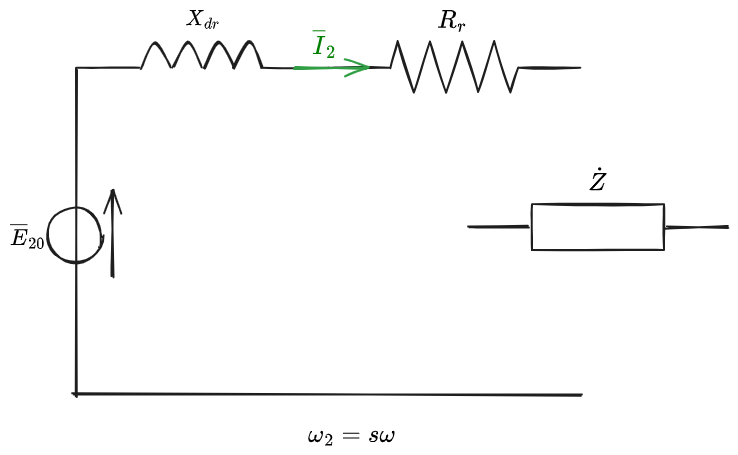
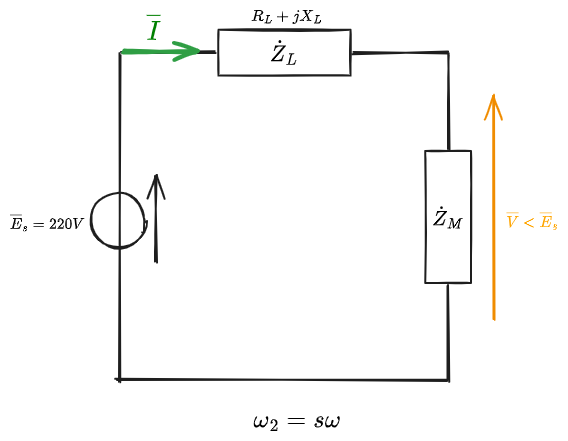
Published multiple files

Changed region(s): [[0.0, 0.0, 0.9877, 0.8844], [0.419, 0.9433, 0.5986, 0.9728]]

diff --git a/src/site/notes/Università/3° Anno/2° Semestre/Elettrotecnica/🔌 Elettrotecnica.md b/src/site/notes/Università/3° Anno/2° Semestre/Elettrotecnica/🔌 Elettrotecnica.md
@@ -117,10 +117,10 @@ ___
 | ------------------------------------------------------------------------------------------------------------------------------------------------------------------------------- | ----- | ------------- |
 | [[Università/3° Anno/2° Semestre/Elettrotecnica/Temi d'esame/Ex 2023-03-15 - ET\|Ex 2023-03-15 - ET]]                                                                        | Esame | 🔴 Fare       |
 | [[Università/3° Anno/2° Semestre/Elettrotecnica/Appunti/00 - Introduzione elettrotecnica\|00 - Introduzione elettrotecnica]]                                                 | T     | 🪶 Scrivere   |
-| [[Università/3° Anno/2° Semestre/Elettrotecnica/Appunti/19 - Motore Asincrono Trifase - ET\|19 - Motore Asincrono Trifase - ET]]                                             | T     | 🪶 Scrivere   |
 | [[Università/3° Anno/2° Semestre/Elettrotecnica/Appunti/20 - Cenni di impianti elettrici - ET\|20 - Cenni di impianti elettrici - ET]]                                       | T     | 🪶 Scrivere   |
 | [[Università/3° Anno/2° Semestre/Elettrotecnica/Appunti/14 - Reti in regime sinusoidale - ET\|14 - Reti in regime sinusoidale - ET]]                                         | T     | 🪶🟡 Scrivere |
 | [[Università/3° Anno/2° Semestre/Elettrotecnica/Appunti/15 - Reti trifasi - ET\|15 - Reti trifasi - ET]]                                                                     | T     | 🪶🟡 Scrivere |
+| [[Università/3° Anno/2° Semestre/Elettrotecnica/Appunti/19 - Motore Asincrono Trifase - ET\|19 - Motore Asincrono Trifase - ET]]                                             | T     | 🪶🟡 Scrivere |
 | [[Università/3° Anno/2° Semestre/Elettrotecnica/Appunti/08 - Reti in regime stazionario - ET\|08 - Reti in regime stazionario - ET]]                                         | T     | 🪶🟡Scrivere  |
 | [[Università/3° Anno/2° Semestre/Elettrotecnica/Appunti/03 - Introduzione allo studio delle reti elettriche - ET\|03 - Introduzione allo studio delle reti elettriche - ET]] | T     | 🟠 Studiare   |
 | [[Università/3° Anno/2° Semestre/Elettrotecnica/Appunti/04 - Fenomeni di conduzione e resistori - ET\|04 - Fenomeni di conduzione e resistori - ET]]                         | T     | 🟠 Studiare   |
@@ -168,7 +168,7 @@ La numerazione dei capitoli fa riferimento alla numerazione del libro di testo "
 | [[Università/3° Anno/2° Semestre/Elettrotecnica/Appunti/16 - Macchine elettriche - ET\|16 - Macchine elettriche - ET]]                                                       | 🟡 Finire     |
 | [[Università/3° Anno/2° Semestre/Elettrotecnica/Appunti/17 - Conversione elettromeccanica dell'energia - ET\|17 - Conversione elettromeccanica dell'energia - ET]]           | 🟠 Studiare   |
 | [[Università/3° Anno/2° Semestre/Elettrotecnica/Appunti/18 - Campo magnetico rotante\|18 - Campo magnetico rotante]]                                                         | 🟠 Studiare   |
-| [[Università/3° Anno/2° Semestre/Elettrotecnica/Appunti/19 - Motore Asincrono Trifase - ET\|19 - Motore Asincrono Trifase - ET]]                                             | 🪶 Scrivere   |
+| [[Università/3° Anno/2° Semestre/Elettrotecnica/Appunti/19 - Motore Asincrono Trifase - ET\|19 - Motore Asincrono Trifase - ET]]                                             | 🪶🟡 Scrivere |
 | [[Università/3° Anno/2° Semestre/Elettrotecnica/Appunti/20 - Cenni di impianti elettrici - ET\|20 - Cenni di impianti elettrici - ET]]                                       | 🪶 Scrivere   |
 
 { .block-language-dataview}

diff --git a/src/site/notes/Università/3° Anno/2° Semestre/Elettrotecnica/Appunti/19 - Motore Asincrono Trifase - ET.md b/src/site/notes/Università/3° Anno/2° Semestre/Elettrotecnica/Appunti/19 - Motore Asincrono Trifase - ET.md
@@ -579,7 +579,7 @@ $$
 ```ad-Definizione
 title: Potenza meccanica ($P_{m}$)
 
-La **potenza meccanica** consegnata alla resistenza equivalente del rotore del [[19 - Motore Asincrono Trifase - ET|MAT]] in presenza di 3 coppie polari, è data da:
+La **potenza meccanica** consegnata alla resistenza equivalente del rotore del [[Università/3° Anno/2° Semestre/Elettrotecnica/Appunti/19 - Motore Asincrono Trifase - ET\|MAT]] in presenza di 3 coppie polari, è data da:
 $
 P_{m} = 3R_{e}I_{2}^{2}
 $
@@ -800,4 +800,44 @@ Si raffigura il circuito monofase equivalente del rotore a gabbia di scoiattolo:
 ![19 - CEM Rotore a gabbia di scoiattolo - ET 2024-07-04 18.00.40.png](/img/user/Excalidraw/19%20-%20CEM%20Rotore%20a%20gabbia%20di%20scoiattolo%20-%20ET%202024-07-04%2018.00.40.png)
 
 
-#### Avviamento con commutazione
+dove:
+- $\dot{Z}_{L} = R_{L}+jX_{L}:$ Impedenza di linea
+- $\dot{Z}_{M}:$ Impedenza di ingresso del motore, dipendente dallo scorrimento (ossia da $\Omega_{rot}$)
+- $\overline{V}:$ Tensione di alimentazione degli avvolgimenti statorici del [[19 - Motore Asincrono Trifase - ET|MAT]]
+
+Si può calcolare la caduta percentuale di tensione:
+$$
+\Delta V_{\%} = \frac{R_{L}P+X_{L}Q}{V^{2}} \cdot 100
+$$
+
+Il motore è generlmente alimentato a $V = 220\,\rm V$. La caduta di tensione però deve rimanere contenuta in modo da limitare le correnti di avviamento. Se ciò non avviene, si finisce solo per aumentare la caduta percentuale, facendo diminuire la tensione di alimentazione con il risultato di avere correnti di avviamento elevate e una macchina che non parte.
+
+Per ovviare a ciò si sfrutta l'[[Università/3° Anno/2° Semestre/Elettrotecnica/Appunti/19 - Motore Asincrono Trifase - ET#Avviamento con commutazione stella-triangolo\|#Avviamento con commutazione stella-triangolo]]
+
+#### Avviamento con commutazione stella-triangolo
+
+Questo tipo di avviamento, nei motori a gabbia di scoiattolo, sfrutta il fatto che, a parità di tensioni, le correnti di carico nella [[Università/3° Anno/2° Semestre/Elettrotecnica/Appunti/08 - Reti in regime stazionario - ET#Configurazione a stella\|configurazione a stella]] risultano essere 1/3 di quelle nella [[Università/3° Anno/2° Semestre/Elettrotecnica/Appunti/08 - Reti in regime stazionario - ET#Configurazione a triangolo\|configurazione a triangolo]].
+
+Anche se la tensione di alimentazione del motore è $\overline{V}$, la tensione sulle fasi statoriche risulterà la tensione stellata
+$$
+\overline{E} = \frac{\overline{V}}{\sqrt{3}}
+$$
+La corrente sul carico (corrispondente nel collegamento a stella alla [[Università/3° Anno/2° Semestre/Elettrotecnica/Appunti/15 - Reti trifasi - ET#Correnti di linea\|corrente di linea]]) sarà:
+$$
+\overline{I}_{\star} = \frac{\overline{E}}{\dot{Z}} = \frac{\overline{V}}{\sqrt{3}\dot{Z}} 
+$$
+La coppia di spunto anche risulterà ridotta. Essendo essa proporzionale al quadrato della tensione:
+$$
+C_{\triangle} = 3 C_{\star}
+$$
+
+❗❗❗❗❗❗❗❗❗❗❗❗
+❗❗❗ COMPLETARE ❗❗❗ chiedere appunti
+❗❗❗❗❗❗❗❗❗❗❗❗
+
+
+
+❗❗❗❗❗❗❗❗❗❗❗❗
+❗❗❗ COMPLETARE ❗❗❗ Rotore a doppia gabbia
+❗❗❗❗❗❗❗❗❗❗❗❗
+

diff --git a/src/site/notes/Università/2° anno/2° Semestre/GIS/🌍 GIS 1 & 2.md b/src/site/notes/Università/2° anno/2° Semestre/GIS/🌍 GIS 1 & 2.md
@@ -32,7 +32,7 @@ title: Domande
 | [[Università/2° anno/2° Semestre/GIS/GIS 1/Elaborati/Elaborato 1 - Quota\|Elaborato 1 - Quota]]                                                 | Elaborato | 🟢 Fatto | GIS     | \-         |
 | [[Università/2° anno/2° Semestre/GIS/GIS 1/Elaborati/Elaborato 2 - Uso suolo\|Elaborato 2 - Uso suolo]]                                         | Elaborato | 🟢 Fatto | GIS     | false      |
 | [[Università/2° anno/2° Semestre/GIS/GIS 2/Elaborati/Elaborato 5 - Analisi di idoneità\|Elaborato 5 - Analisi di idoneità]]                     | Es        | 🟢 Fatto | GIS 2   | \-         |
-| [[Università/2° anno/2° Semestre/GIS/GIS 1/0. Introduzione\|0. Introduzione]]                                                                   | T         | 🟢 Fatto | GIS 1   | false      |
+| [[Università/2° anno/2° Semestre/GIS/GIS 1/0. Introduzione\|0. Introduzione]]                                                                   | T         | 🟢 Fatto | GIS 1   | true       |
 | [[Università/2° anno/2° Semestre/GIS/GIS 1/1. Rappresentazione della terra e del territorio\|1. Rappresentazione della terra e del territorio]] | T         | 🟢 Fatto | GIS 1   | false      |
 | [[Università/2° anno/2° Semestre/GIS/GIS 1/2. Cartografia e GIS\|2. Cartografia e GIS]]                                                         | T         | 🟢 Fatto | GIS 1   | true       |
 | [[Università/2° anno/2° Semestre/GIS/GIS 1/3. Acquisizione dati\|3. Acquisizione dati]]                                                         | T         | 🟢 Fatto | GIS 1   | true       |

diff --git a/src/site/notes/Università/2° anno/2° Semestre/GIS/GIS 1/2. Cartografia e GIS.md b/src/site/notes/Università/2° anno/2° Semestre/GIS/GIS 1/2. Cartografia e GIS.md
@@ -452,7 +452,7 @@ In base alla scala, si definisce il tipo di rappresentazione.
 
 È importante notare che più riduco la scala più aumento l'[[errore di misura\|errore di misura]] ossia l'incertezza.
 
-La scala non è definibile in modo univoco. Distiguiamo:
+La scala non è definibile in modo univoco. Distinguiamo:
 - [[Università/2° anno/2° Semestre/GIS/GIS 1/2. Cartografia e GIS#Scala grafica\|#Scala grafica]]
 - [[Università/2° anno/2° Semestre/GIS/GIS 1/2. Cartografia e GIS#Scala di visualizzazione\|#Scala di visualizzazione]]
 - [[Università/2° anno/2° Semestre/GIS/GIS 1/2. Cartografia e GIS#Scala nominale\|#Scala nominale]]

diff --git a/src/site/notes/Università/2° anno/2° Semestre/GIS/GIS 1/0. Introduzione.md b/src/site/notes/Università/2° anno/2° Semestre/GIS/GIS 1/0. Introduzione.md
@@ -1,0 +1,20 @@
+---
+{"dg-publish":true,"permalink":"/universita/2-anno/2-semestre/gis/gis-1/0-introduzione/"}
+---
+
+
+prof.: Michele Munafò
+email: michele.munafo@uniroma1.it
+Accesso elearning: 9845
+Esame: Orale
+- Discussione elaborato (pratica)
+- Competenze teoriche
+
+```ad-warning
+- Gli elaborati vanno consegnati sull'e-elearning almeno 2 giorni prima dell'esame orale
+- Gli elaborati vanno portati all'esame (su portatile, pennetta USB o altro)
+```
+
+sito: 
+
+

diff --git a/src/site/notes/🇨🇿 Repubblica Ceca.md b/src/site/notes/🇨🇿 Repubblica Ceca.md
@@ -11,8 +11,8 @@
 
 | File                                                                     |
 | ------------------------------------------------------------------------ |
-| [[Personale/Viaggi/🇨🇿 Praga 2022/🇨🇿 Praga 2022\|🇨🇿 Praga 2022]] |
 | [[Personale/Viaggi/🇨🇿 Praga 2024/🇨🇿 Praga 2024\|🇨🇿 Praga 2024]] |
+| [[Personale/Viaggi/🇨🇿 Praga 2022/🇨🇿 Praga 2022\|🇨🇿 Praga 2022]] |
 
 { .block-language-dataview}
 

diff --git a/src/site/notes/Trasformatore.md b/src/site/notes/Trasformatore.md
@@ -44,6 +44,8 @@ I conduttori generalmente non sono garantiti per una densità di corrente infini
 
 # Trasformatore ideale
 
+#UNI/ET/Domanda 
+
 ![Trasformatore 2024-06-28 17.55.16.excalidraw.png](/img/user/Excalidraw/Trasformatore%202024-06-28%2017.55.16.excalidraw.png)
 
 

diff --git a/src/site/notes/Università/3° Anno/2° Semestre/Elettrotecnica/Appunti/20 - Cenni di impianti elettrici - ET.md b/src/site/notes/Università/3° Anno/2° Semestre/Elettrotecnica/Appunti/20 - Cenni di impianti elettrici - ET.md
@@ -6,3 +6,5 @@
 
 
 
+
+
